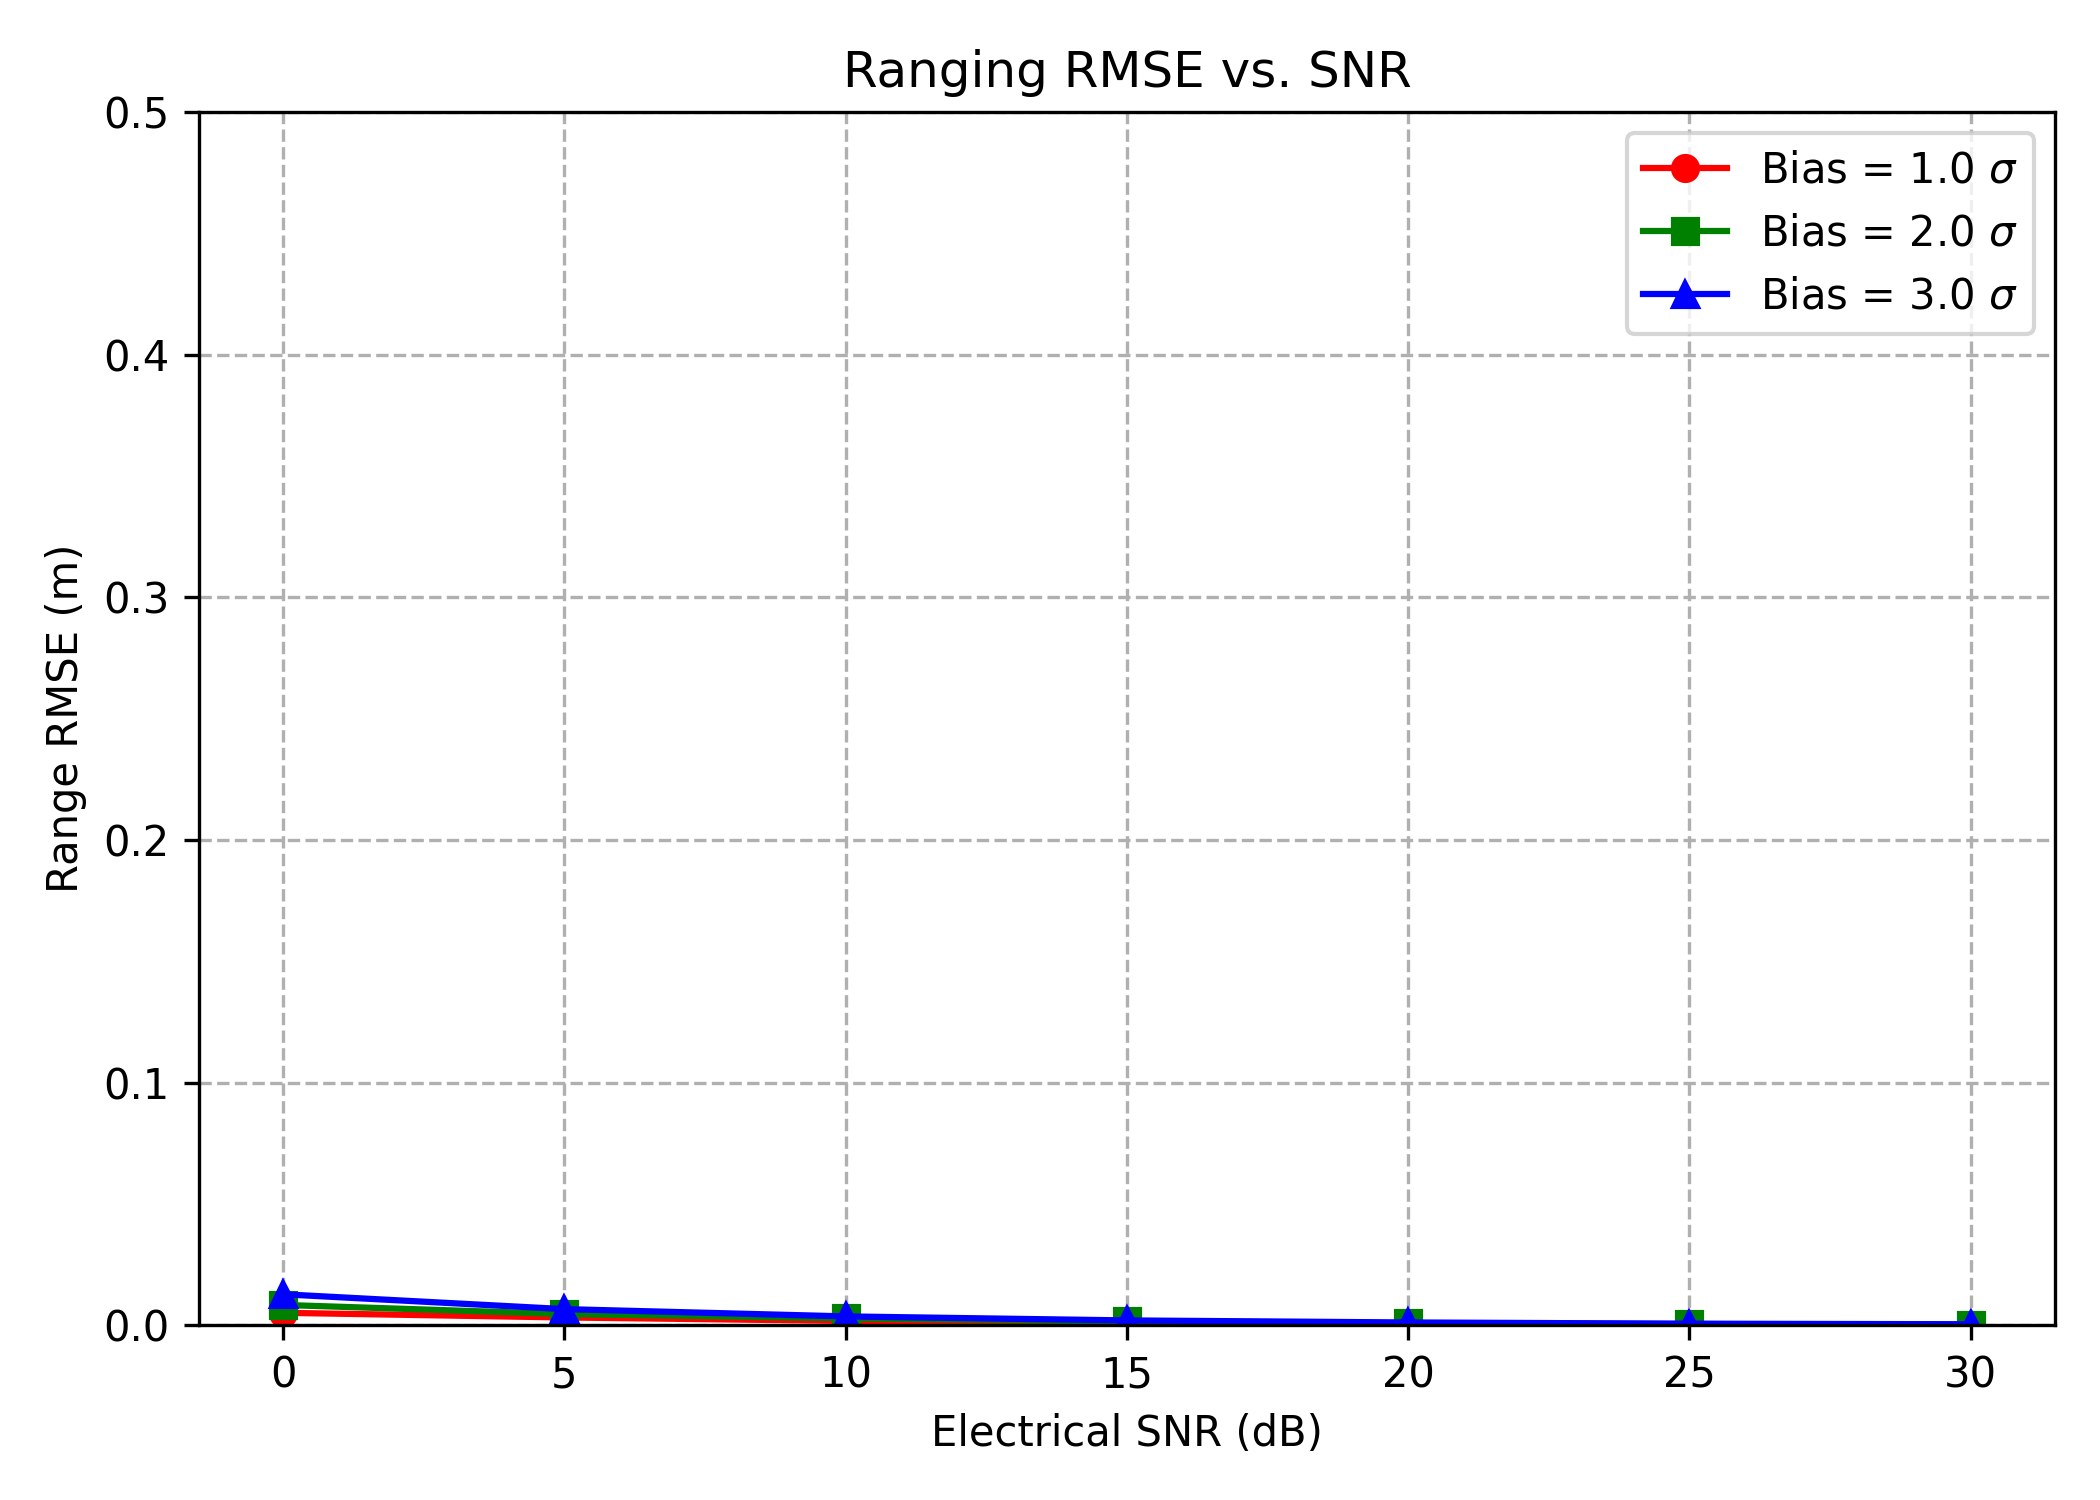
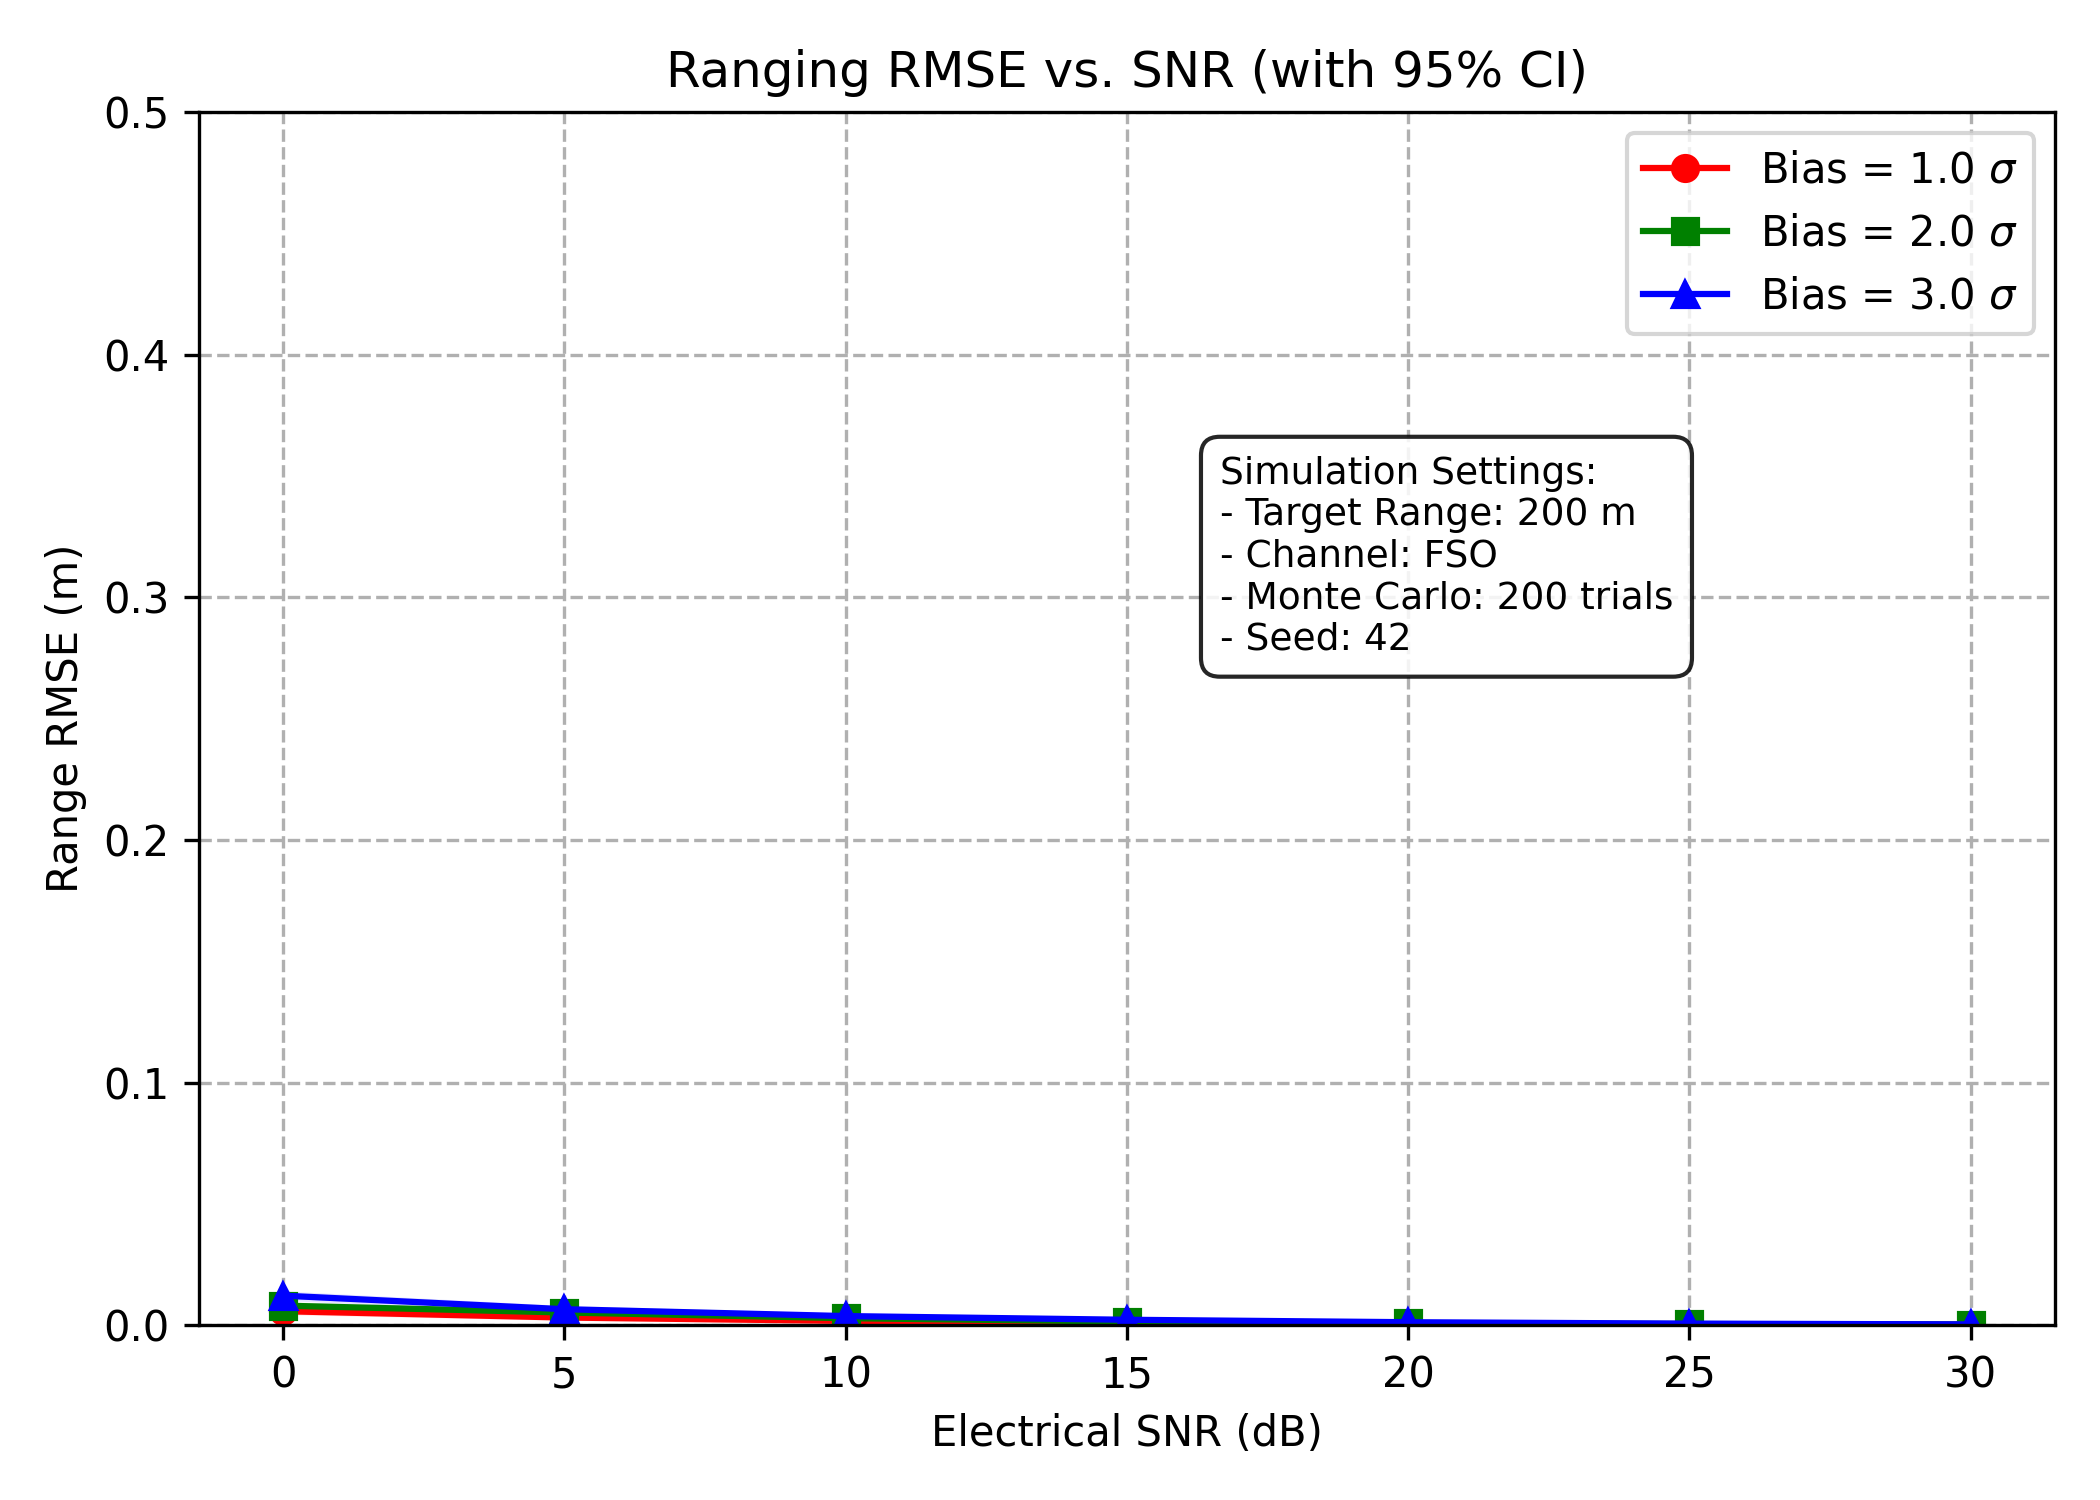
Add confidence intervals and parameter annotations to Figure 4

Changed region(s): [[0.5571, 0.276, 0.8048, 0.46], [0.3095, 0.0307, 0.7738, 0.0613], [0.1238, 0.8587, 0.2476, 0.8893]]

diff --git a/plots.py b/plots.py
@@ -1,50 +1,75 @@
 import matplotlib.pyplot as plt
+import numpy as np
 import os
 
-def plot_ber_vs_snr(snr_range, ber_results, output_path="figures/figure4a.png"):
+def plot_ber_vs_snr(snr_range, ber_results, ber_se, output_path="figures/figure4a.png"):
     """
-    Plots Communication BER vs. Electrical SNR for different DC bias levels.
+    Plots Communication BER vs. Electrical SNR for different DC bias levels with 95% confidence intervals.
     """
     plt.figure(figsize=(7, 5))
     colors = {1.0: "r", 2.0: "g", 3.0: "b"}
     markers = {1.0: "o", 2.0: "s", 3.0: "^"}
     
     for bias, ber in ber_results.items():
-        plt.semilogy(snr_range, ber, color=colors.get(bias, "k"), 
+        ber_arr = np.array(ber)
+        se_arr = np.array(ber_se[bias])
+        plt.semilogy(snr_range, ber_arr, color=colors.get(bias, "k"), 
                      marker=markers.get(bias, "x"), label=f"Bias = {bias} $\sigma$")
+        
+        # 95% Confidence Interval: mean +/- 1.96 * SE
+        lower = np.maximum(1e-6, ber_arr - 1.96 * se_arr)
+        upper = ber_arr + 1.96 * se_arr
+        plt.fill_between(snr_range, lower, upper, color=colors.get(bias, "k"), alpha=0.1)
         
     plt.xlabel("Electrical SNR (dB)")
     plt.ylabel("Bit Error Rate (BER)")
     plt.grid(True, which="both", ls="--")
     plt.ylim([1e-5, 1.0])
     plt.legend()
-    plt.title("Communication BER vs. SNR")
-    plt.tight_layout()
+    plt.title("Communication BER vs. SNR (with 95% CI)")
     
+    # On-plot parameter annotations
+    param_text = "Simulation Settings:\n- Waveform: DCO-OFDM\n- FFT Size: 256\n- Subcarriers: 127 active\n- Monte Carlo: 200 trials\n- Seed: 42"
+    plt.text(0.05, 0.05, param_text, transform=plt.gca().transAxes, fontsize=9,
+             verticalalignment='bottom', bbox=dict(boxstyle='round,pad=0.5', facecolor='white', alpha=0.85))
+             
+    plt.tight_layout()
     os.makedirs(os.path.dirname(output_path), exist_ok=True)
     plt.savefig(output_path, dpi=300)
     plt.close()
 
-def plot_rmse_vs_snr(snr_range, rmse_results, output_path="figures/figure4b.png"):
+def plot_rmse_vs_snr(snr_range, rmse_results, rmse_se, output_path="figures/figure4b.png"):
     """
-    Plots Sensing Range RMSE vs. Electrical SNR for different DC bias levels.
+    Plots Sensing Range RMSE vs. Electrical SNR for different DC bias levels with 95% confidence intervals.
     """
     plt.figure(figsize=(7, 5))
     colors = {1.0: "r", 2.0: "g", 3.0: "b"}
     markers = {1.0: "o", 2.0: "s", 3.0: "^"}
     
     for bias, rmse_val in rmse_results.items():
-        plt.plot(snr_range, rmse_val, color=colors.get(bias, "k"), 
+        rmse_arr = np.array(rmse_val)
+        se_arr = np.array(rmse_se[bias])
+        plt.plot(snr_range, rmse_arr, color=colors.get(bias, "k"), 
                  marker=markers.get(bias, "x"), label=f"Bias = {bias} $\sigma$")
+        
+        # 95% Confidence Interval: mean +/- 1.96 * SE
+        lower = np.maximum(0.0, rmse_arr - 1.96 * se_arr)
+        upper = rmse_arr + 1.96 * se_arr
+        plt.fill_between(snr_range, lower, upper, color=colors.get(bias, "k"), alpha=0.1)
         
     plt.xlabel("Electrical SNR (dB)")
     plt.ylabel("Range RMSE (m)")
     plt.grid(True, which="both", ls="--")
     plt.ylim([0.0, 0.5])
     plt.legend()
-    plt.title("Ranging RMSE vs. SNR")
-    plt.tight_layout()
+    plt.title("Ranging RMSE vs. SNR (with 95% CI)")
     
+    # On-plot parameter annotations
+    param_text = "Simulation Settings:\n- Target Range: 200 m\n- Channel: FSO\n- Monte Carlo: 200 trials\n- Seed: 42"
+    plt.text(0.55, 0.55, param_text, transform=plt.gca().transAxes, fontsize=9,
+             verticalalignment='bottom', bbox=dict(boxstyle='round,pad=0.5', facecolor='white', alpha=0.85))
+             
+    plt.tight_layout()
     os.makedirs(os.path.dirname(output_path), exist_ok=True)
     plt.savefig(output_path, dpi=300)
     plt.close()

diff --git a/simulate.py b/simulate.py
@@ -41,6 +41,9 @@ def run_frame_simulation(N, Delta_f, M_qam, kappa, SNR_comm_dB, SNR_sens_dB, tar
     return num_bits, comm_errors, range_error
 
 def main():
+    # Set seed for exact reproducibility of Monte Carlo trials
+    np.random.seed(42)
+    
     print("=" * 60)
     print("OPTICAL-FIRST ISAC: DCO-OFDM JOINT WAVEFORM SIMULATION")
     print("=" * 60)
@@ -61,18 +64,19 @@ def main():
     ber_results = {}
     rmse_results = {}
     
+    ber_se = {}
+    rmse_se = {}
+    
     for bias in bias_levels:
         results[bias] = {"ber": [], "rmse": []}
         ber_results[bias] = []
         rmse_results[bias] = []
+        ber_se[bias] = []
+        rmse_se[bias] = []
         
         print(f"\nRunning Monte Carlo simulation for DC bias level = {bias} sigma...")
         
         for snr in snr_range:
-            # We run two Monte Carlo simulation sets:
-            # 1. Vary communication SNR (keeping sensing SNR constant at 15 dB) to get BER
-            # 2. Vary sensing SNR (keeping communication SNR constant at 15 dB) to get Range RMSE
-            
             # --- Communication BER Sweep ---
             total_bits = 0
             total_errors = 0
@@ -85,6 +89,8 @@ def main():
                 total_bits += num_bits
                 total_errors += comm_errors
             ber = total_errors / total_bits
+            # Binomial standard error: SE = sqrt( p*(1-p) / N_bits )
+            se_ber = np.sqrt(ber * (1.0 - ber) / total_bits) if total_bits > 0 else 0.0
             
             # --- Sensing RMSE Sweep ---
             range_errors = []
@@ -97,23 +103,38 @@ def main():
                 # Outlier rejection (threshold 5m from target)
                 if np.abs(range_error) < 5.0:
                     range_errors.append(range_error)
+            
+            range_errors = np.array(range_errors)
             range_rmse = rmse(range_errors)
+            
+            # Compute standard error of the RMSE using the Delta method
+            # SE_MSE = std(e_i^2) / sqrt(M)
+            # SE_RMSE = SE_MSE / (2 * RMSE)
+            if len(range_errors) > 0:
+                sq_errors = range_errors ** 2
+                se_mse = np.std(sq_errors) / np.sqrt(len(sq_errors))
+                se_rmse = se_mse / (2.0 * np.maximum(range_rmse, 1e-6))
+            else:
+                se_rmse = 0.0
             
             results[bias]["ber"].append(ber)
             results[bias]["rmse"].append(range_rmse)
             ber_results[bias].append(ber)
             rmse_results[bias].append(range_rmse)
             
-            print(f"  SNR: {snr:2d} dB | BER: {ber:.5f} | Range RMSE: {range_rmse:.4f} m")
+            ber_se[bias].append(se_ber)
+            rmse_se[bias].append(se_rmse)
+            
+            print(f"  SNR: {snr:2d} dB | BER: {ber:.5f} | Range RMSE: {range_rmse:.4f} m (SE: {se_rmse:.4f} m)")
 
     # Save results to output files
     export_results_csv(snr_range, ber_results, rmse_results, results_dir="results")
     export_results_json(snr_range, results, file_path="results/simulation_results.json")
     print("\nSimulation results successfully exported to 'results/ber.csv' and 'results/rmse.csv'.")
     
-    # Generate and save figures
-    plot_ber_vs_snr(snr_range, ber_results, output_path="figures/figure4a.png")
-    plot_rmse_vs_snr(snr_range, rmse_results, output_path="figures/figure4b.png")
+    # Generate and save figures with confidence intervals and on-plot annotations
+    plot_ber_vs_snr(snr_range, ber_results, ber_se, output_path="figures/figure4a.png")
+    plot_rmse_vs_snr(snr_range, rmse_results, rmse_se, output_path="figures/figure4b.png")
     print("Figures successfully saved to 'figures/figure4a.png' and 'figures/figure4b.png'.")
     print("=" * 60)
 